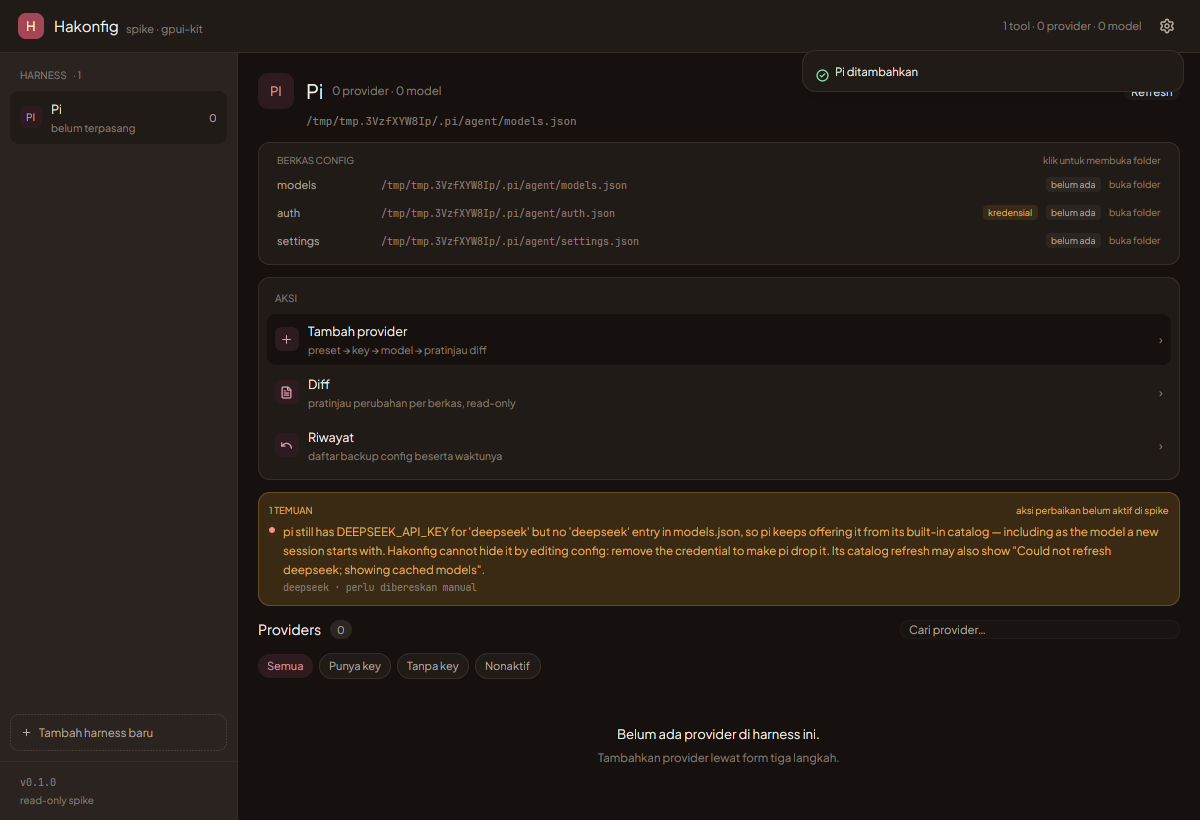
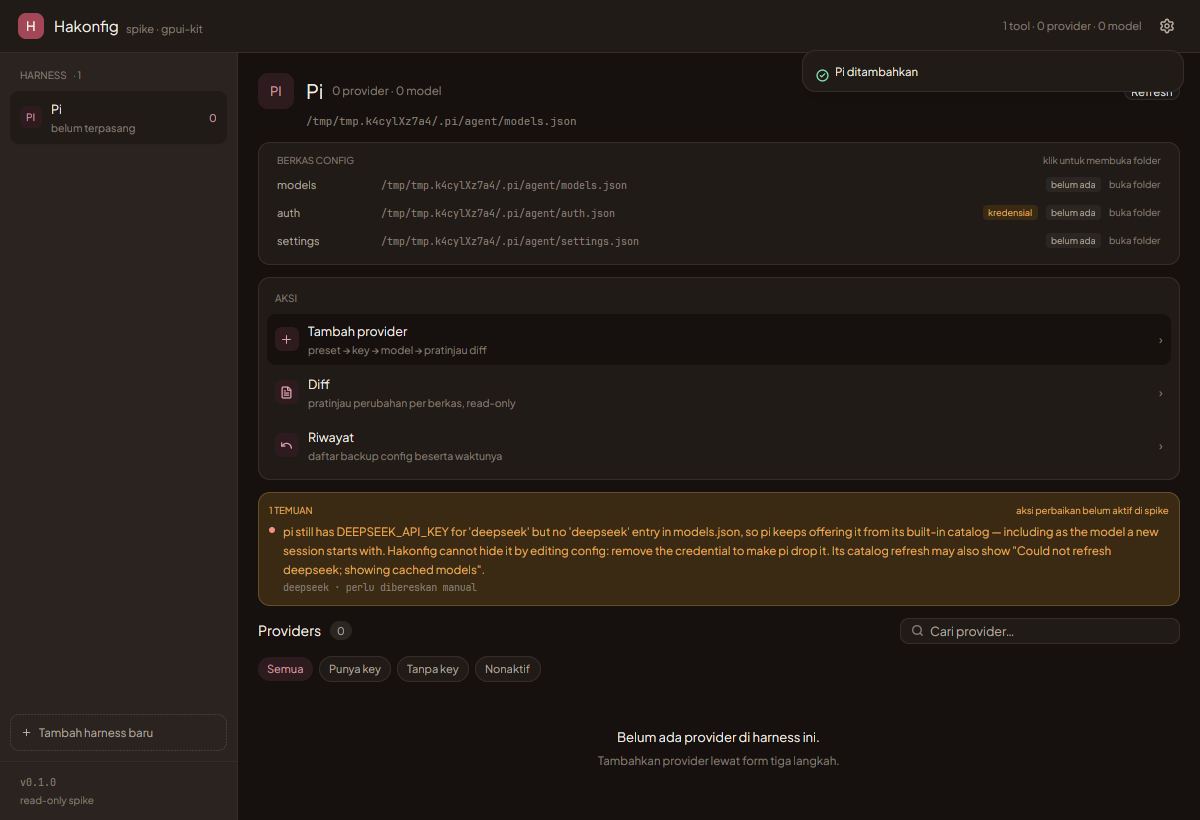
feat(spike): kotak teks seragam 36 px dengan ikon
- Semua Input lewat palette::text_input: latar putih kartu, garis p.line, tinggi 36 px, teks 12,5 px.
- Ikon kiri: Search (cari provider/preset/model), Asterisk (API key), SquareTerminal (id), CircleUser (nama), Globe (base URL), Network (jenis API).
- Theme token input dibetulkan ke p.line supaya garis input terlihat di tema terang.
- Screenshot dokumentasi terang/gelap dan instalasi baru dibuat ulang.

diff --git a/spike/gpui-kit/src/views/add.rs b/spike/gpui-kit/src/views/add.rs
@@ -5,11 +5,11 @@
 
 use std::collections::HashSet;
 
+use gpui_kit::assets::IconName;
 use gpui_kit::component::{
     h_flex,
     input::{Input, InputEvent, InputState},
     v_flex,
-    Sizable,
 };
 use gpui_kit::prelude::*;
 use gpui_kit::*;
@@ -430,7 +430,11 @@ impl AddView {
                 h_flex()
                     .gap(px(8.))
                     .items_center()
-                    .child(div().w(px(300.)).child(Input::new(&self.search).small()))
+                    .child(
+                        div()
+                            .w(px(300.))
+                            .child(palette::text_input(p, &self.search, IconName::Search)),
+                    )
                     .child(chip(
                         p,
                         format!("{shown} preset"),
@@ -541,10 +545,26 @@ impl AddView {
                         .font_weight(FontWeight::BOLD)
                         .child("Provider custom"),
                 )
-                .child(field(p, "ID provider", Input::new(&self.custom_id).small()))
-                .child(field(p, "Nama", Input::new(&self.custom_name).small()))
-                .child(field(p, "Base URL", Input::new(&self.custom_base).small()))
-                .child(field(p, "Jenis API", Input::new(&self.custom_api).small()));
+                .child(field(
+                    p,
+                    "ID provider",
+                    palette::text_input(p, &self.custom_id, IconName::SquareTerminal),
+                ))
+                .child(field(
+                    p,
+                    "Nama",
+                    palette::text_input(p, &self.custom_name, IconName::CircleUser),
+                ))
+                .child(field(
+                    p,
+                    "Base URL",
+                    palette::text_input(p, &self.custom_base, IconName::Globe),
+                ))
+                .child(field(
+                    p,
+                    "Jenis API",
+                    palette::text_input(p, &self.custom_api, IconName::Network),
+                ));
         } else if let Some(pr) = self.picked.and_then(|ix| self.presets.get(ix)) {
             col = col.child(
                 v_flex()
@@ -700,7 +720,11 @@ impl AddView {
                     )),
             );
         } else {
-            col = col.child(field(p, "API key", Input::new(&self.key_input).small()));
+            col = col.child(field(
+                p,
+                "API key",
+                palette::text_input(p, &self.key_input, IconName::Asterisk),
+            ));
             if !self.key_text.trim().is_empty() {
                 col = col.child(
                     div()
@@ -854,7 +878,13 @@ impl AddView {
                     p.neutral_text,
                 ))
                 .child(div().flex_1())
-                .child(div().w(px(220.)).child(Input::new(&self.model_query_input).small())),
+                .child(
+                    div().w(px(220.)).child(palette::text_input(
+                        p,
+                        &self.model_query_input,
+                        IconName::Search,
+                    )),
+                ),
         );
 
         if rows.is_empty() {

diff --git a/spike/gpui-kit/src/palette.rs b/spike/gpui-kit/src/palette.rs
@@ -5,6 +5,8 @@
 //! menyimpan preferensi tema sebagai global GPUI supaya view mana pun bisa
 //! mengubahnya tanpa harus menembus state `App`.
 
+use gpui_kit::assets::IconName;
+use gpui_kit::component::input::{Input, InputState};
 use gpui_kit::component::{Theme, ThemeMode};
 use gpui_kit::*;
 
@@ -138,7 +140,7 @@ pub fn apply_theme(p: Palette, dark_mode: bool, cx: &mut App) {
         t.background = p.canvas;
         t.foreground = p.ink;
         t.border = p.line;
-        t.input = p.surface;
+        t.input = p.line;
         t.primary = p.brand;
         t.primary_hover = p.brand_hover;
         t.primary_active = p.brand_hover;
@@ -219,4 +221,26 @@ pub fn soft_button(p: &Palette, id: &'static str, label: &'static str) -> Statef
         .cursor_pointer()
         .hover(|s| s.bg(p.surface_muted).border_color(p.line_strong))
         .child(label.to_string())
+}
+
+/// Kotak teks dengan bentuk yang sama di semua layar.
+///
+/// Default gpui-kit memakai tinggi 24 px (`.small()`) dan latar
+/// `theme.background` — di tema terang itu krem, jadi kotak menyatu dengan
+/// kanvas dan tidak terbaca sebagai input. Di sini latarnya putih kartu,
+/// garisnya `p.line`, tingginya 36 px, dan ikon kiri memberi petunjuk isi.
+pub fn text_input(p: &Palette, state: &Entity<InputState>, icon: IconName) -> Input {
+    Input::new(state)
+        .h(px(36.))
+        .text_size(px(12.5))
+        .rounded(px(9.))
+        .bg(p.surface)
+        .border_1()
+        .border_color(p.line)
+        .prefix(
+            div()
+                .text_size(px(13.))
+                .text_color(p.ink_muted)
+                .child(icon),
+        )
 }

diff --git a/spike/gpui-kit/src/views/providers.rs b/spike/gpui-kit/src/views/providers.rs
@@ -6,7 +6,6 @@ use gpui_kit::component::{
     Sizable,
     button::Button,
     h_flex,
-    input::Input,
     switch::Switch,
     v_flex,
     WindowExt as _,
@@ -262,7 +261,13 @@ pub fn render(app: &App, p: &Palette, cx: &mut Context<App>) -> impl IntoElement
                     .child(entry.provider_count.to_string()),
             )
             .child(div().flex_1())
-            .child(div().w(px(280.)).child(Input::new(&app.query).small())),
+            .child(
+                div().w(px(280.)).child(palette::text_input(
+                    p,
+                    &app.query,
+                    IconName::Search,
+                )),
+            ),
     );
 
     let mut chips = h_flex().gap(px(6.)).items_center().pb(px(2.));

diff --git a/spike/gpui-kit/PROGRESS.md b/spike/gpui-kit/PROGRESS.md
@@ -59,6 +59,21 @@ xdotool search --name "spike gpui-kit" | tail -1 | xargs -I{} import -window {} 
 
 ## Log
 
+### 2026-11-23 23:26 · repo · kotak teks seragam + ikon
+- Kerja: semua `Input` (cari provider, cari preset/model, API key, empat field
+  provider custom) sekarang lewat `palette::text_input`: tinggi 36 px (dari
+  24 px `.small()`), latar putih kartu, garis `p.line`, radius 9, teks 12,5 px,
+  dan ikon kiri (Search / Asterisk / SquareTerminal / CircleUser / Globe /
+  Network). Token tema `t.input` juga dibetulkan dari `p.surface` (putih, jadi
+  garis input tak terlihat) menjadi `p.line`.
+- File: `src/palette.rs`, `src/views/add.rs`, `src/views/providers.rs`.
+- Verifikasi: `cargo build` hijau; screenshot tema terang & gelap: kotak cari
+  provider/preset/model, API key, dan form custom semuanya berlatar putih
+  dengan garis dan ikon; screenshot dokumentasi dibuat ulang.
+- Kendala: latar input gpui-kit di tema terang memakai `theme.background`
+  (kanvas krem), bukan `theme.input`, jadi hanya `t.input` tidak cukup —
+  latar harus ditimpa per elemen.
+
 ### 2026-11-23 21:58 · repo · instalasi baru kosong + picker harness
 - Kerja: sidebar tidak lagi menampilkan keempat adapter tanpa syarat. Yang
   tampil hanya harness yang punya config/binary atau yang pernah dipilih lewat
